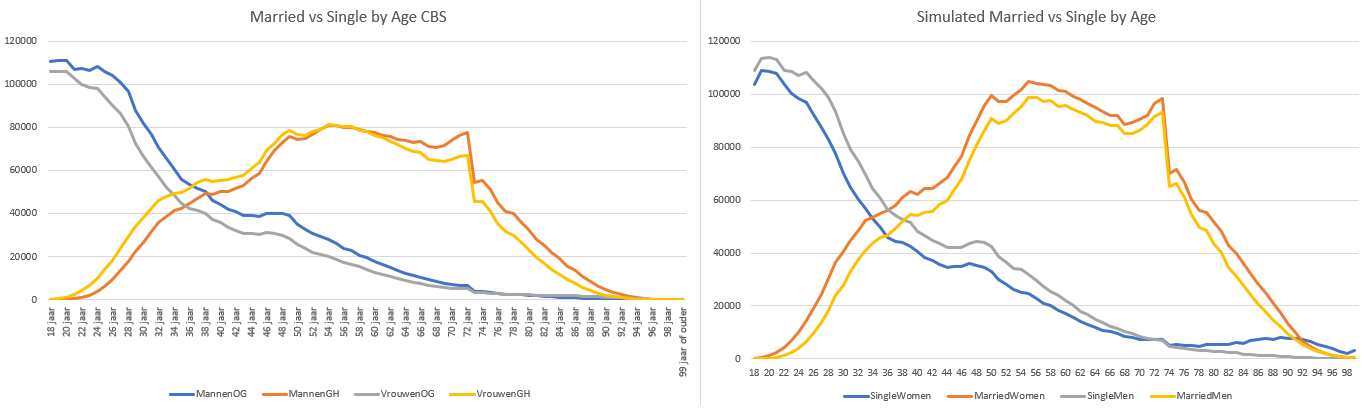
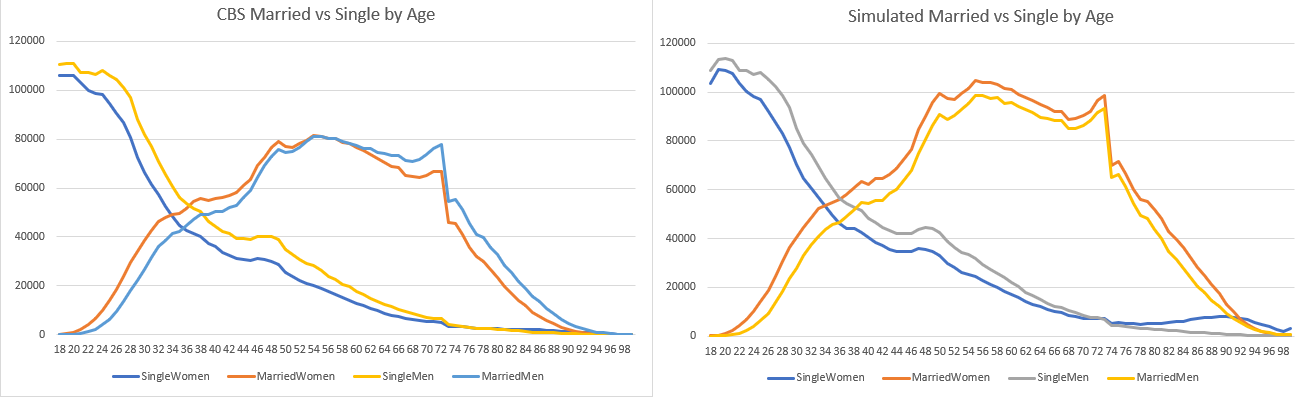
MaritalAgeProbability Changed, Added the right Graphs

diff --git a/src/Vs.Simulation.Core.Tests/MaritalAgeProbabilityTest.cs b/src/Vs.Simulation.Core.Tests/MaritalAgeProbabilityTest.cs
@@ -13,8 +13,10 @@ namespace Vs.Simulation.Core.Tests
         public int Age { get; set; }
         public int SingleWomen { get; set; }
         public int MarriedWomen { get; set; }
+        public int DivorcedWomen { get; set; }
         public int SingleMen { get; set; }
         public int MarriedMen { get; set; }
+        public int DivorcedMen { get; set; }
     }
 
     public class MaritalAgePropabilityCollection : List<MaritalAgeProbability>
@@ -31,9 +33,6 @@ namespace Vs.Simulation.Core.Tests
     //    }
     //}
 
-
-
-
     public class MaritalAgeProbabilityTest
     {   
         [Fact]
@@ -45,40 +44,42 @@ namespace Vs.Simulation.Core.Tests
             frame = Frame.ReadCsv("../../../../../doc/data/MaritalAgeWeights.csv");
             List<double> weights;
             Random rnd = new Random(42);
-            var womenList = new Dictionary<int,List<PartnerType>>();
-            var menList = new Dictionary<int, List<PartnerType>>();
+            var womenList = new Dictionary<int,List<PartnerTypeAge>>();
+            var menList = new Dictionary<int, List<PartnerTypeAge>>();
             var collection = new MaritalAgePropabilityCollection();
-            var womenStatus = new List<PartnerType>();
-            var menStatus = new List<PartnerType>();
+            var womenStatus = new List<PartnerTypeAge>();
+            var menStatus = new List<PartnerTypeAge>();
             var femaleAge = Age.FemaleWeights;
             var maleAge = Age.MaleWeights;
 
             //Act
             for (int i = 18; i < 100; i++) 
             {
-                womenList.Add(i, new List<PartnerType>());
-                menList.Add(i, new List<PartnerType>());
+                womenList.Add(i, new List<PartnerTypeAge>());
+                menList.Add(i, new List<PartnerTypeAge>());
 
                 for (int j = 0; j < femaleAge[i]; j++) 
                 {
-                    weights = frame.GetColumn<double>(Convert.ToString(i)).Values.Select(c => Convert.ToDouble(c)).Skip(2).Take(2).ToList();
-                    MaritalStatus.Weights = weights;
-                    womenList[i].Add(env.RandChoice(MaritalStatus.Source, MaritalStatus.Weights));
+                    weights = frame.GetColumn<double>(Convert.ToString(i)).Values.Select(c => Convert.ToDouble(c)).Skip(3).Take(3).ToList();
+                    MaritalStatusAge.Weights = weights;
+                    womenList[i].Add(env.RandChoice(MaritalStatusAge.Source, MaritalStatusAge.Weights));
                 }
 
                 for (int j = 0; j < maleAge[i]; j++) 
                 {
-                    weights = frame.GetColumn<double>(Convert.ToString(i)).Values.Select(c => Convert.ToDouble(c)).Take(2).ToList();
-                    MaritalStatus.Weights = weights;
-                    menList[i].Add(env.RandChoice(MaritalStatus.Source, MaritalStatus.Weights));
+                    weights = frame.GetColumn<double>(Convert.ToString(i)).Values.Select(c => Convert.ToDouble(c)).Take(3).ToList();
+                    MaritalStatusAge.Weights = weights;
+                    menList[i].Add(env.RandChoice(MaritalStatusAge.Source, MaritalStatusAge.Weights));
                 }
 
                 collection.Add(new MaritalAgeProbability()
                 {
-                    SingleWomen = womenList[i].Where(p => p == PartnerType.Single).Count(),
-                    MarriedWomen = womenList[i].Where(p => p == PartnerType.Married).Count(),
-                    SingleMen = menList[i].Where(p => p == PartnerType.Single).Count(),
-                    MarriedMen = menList[i].Where(p => p == PartnerType.Married).Count(),
+                    SingleWomen = womenList[i].Where(p => p == PartnerTypeAge.Single).Count(),
+                    MarriedWomen = womenList[i].Where(p => p == PartnerTypeAge.Married).Count(),
+                    DivorcedWomen = womenList[i].Where(p => p == PartnerTypeAge.Divorced).Count(),
+                    SingleMen = menList[i].Where(p => p == PartnerTypeAge.Single).Count(),
+                    MarriedMen = menList[i].Where(p => p == PartnerTypeAge.Married).Count(),
+                    DivorcedMen = menList[i].Where(p => p == PartnerTypeAge.Divorced).Count(),
                     Age = i
                 });
             }

diff --git a/src/Vs.Simulation.Core/Probabilities/MaritalStatus.cs b/src/Vs.Simulation.Core/Probabilities/MaritalStatus.cs
@@ -10,13 +10,35 @@ namespace Vs.Simulation.Core.Probabilities
         /// <summary>
         /// Weight distribution of the probability
         /// </summary>
-        public static List<double> Weights { get; set; } = new List<double> { 1, 1, /*1*/ };
+        public static List<double> Weights { get; set; } = new List<double> { 1, 1, 1 };
         /// <summary>
         /// A list of sources to select a sample from
         /// </summary>
-        public static List<PartnerType> Source { get; private set; } = new List<PartnerType> { PartnerType.Single, PartnerType.Married, /*PartnerType.Partnership*/ };
+        public static List<PartnerType> Source { get; private set; } = new List<PartnerType> { PartnerType.Single, PartnerType.Married, PartnerType.Partnership };
 
         
+    }
+
+
+    public static class MaritalStatusAge
+    {
+        /// <summary>
+        /// Weight distribution of the probability
+        /// </summary>
+        public static List<double> Weights { get; set; } = new List<double> { 1, 1, 1 };
+        /// <summary>
+        /// A list of sources to select a sample from
+        /// </summary>
+        public static List<PartnerTypeAge> Source { get; private set; } = new List<PartnerTypeAge> { PartnerTypeAge.Single, PartnerTypeAge.Married, PartnerTypeAge.Divorced };
+
+
+    }
+
+    public enum PartnerTypeAge
+    {
+        Single,
+        Married,
+        Divorced
     }
 
     public enum PartnerType
